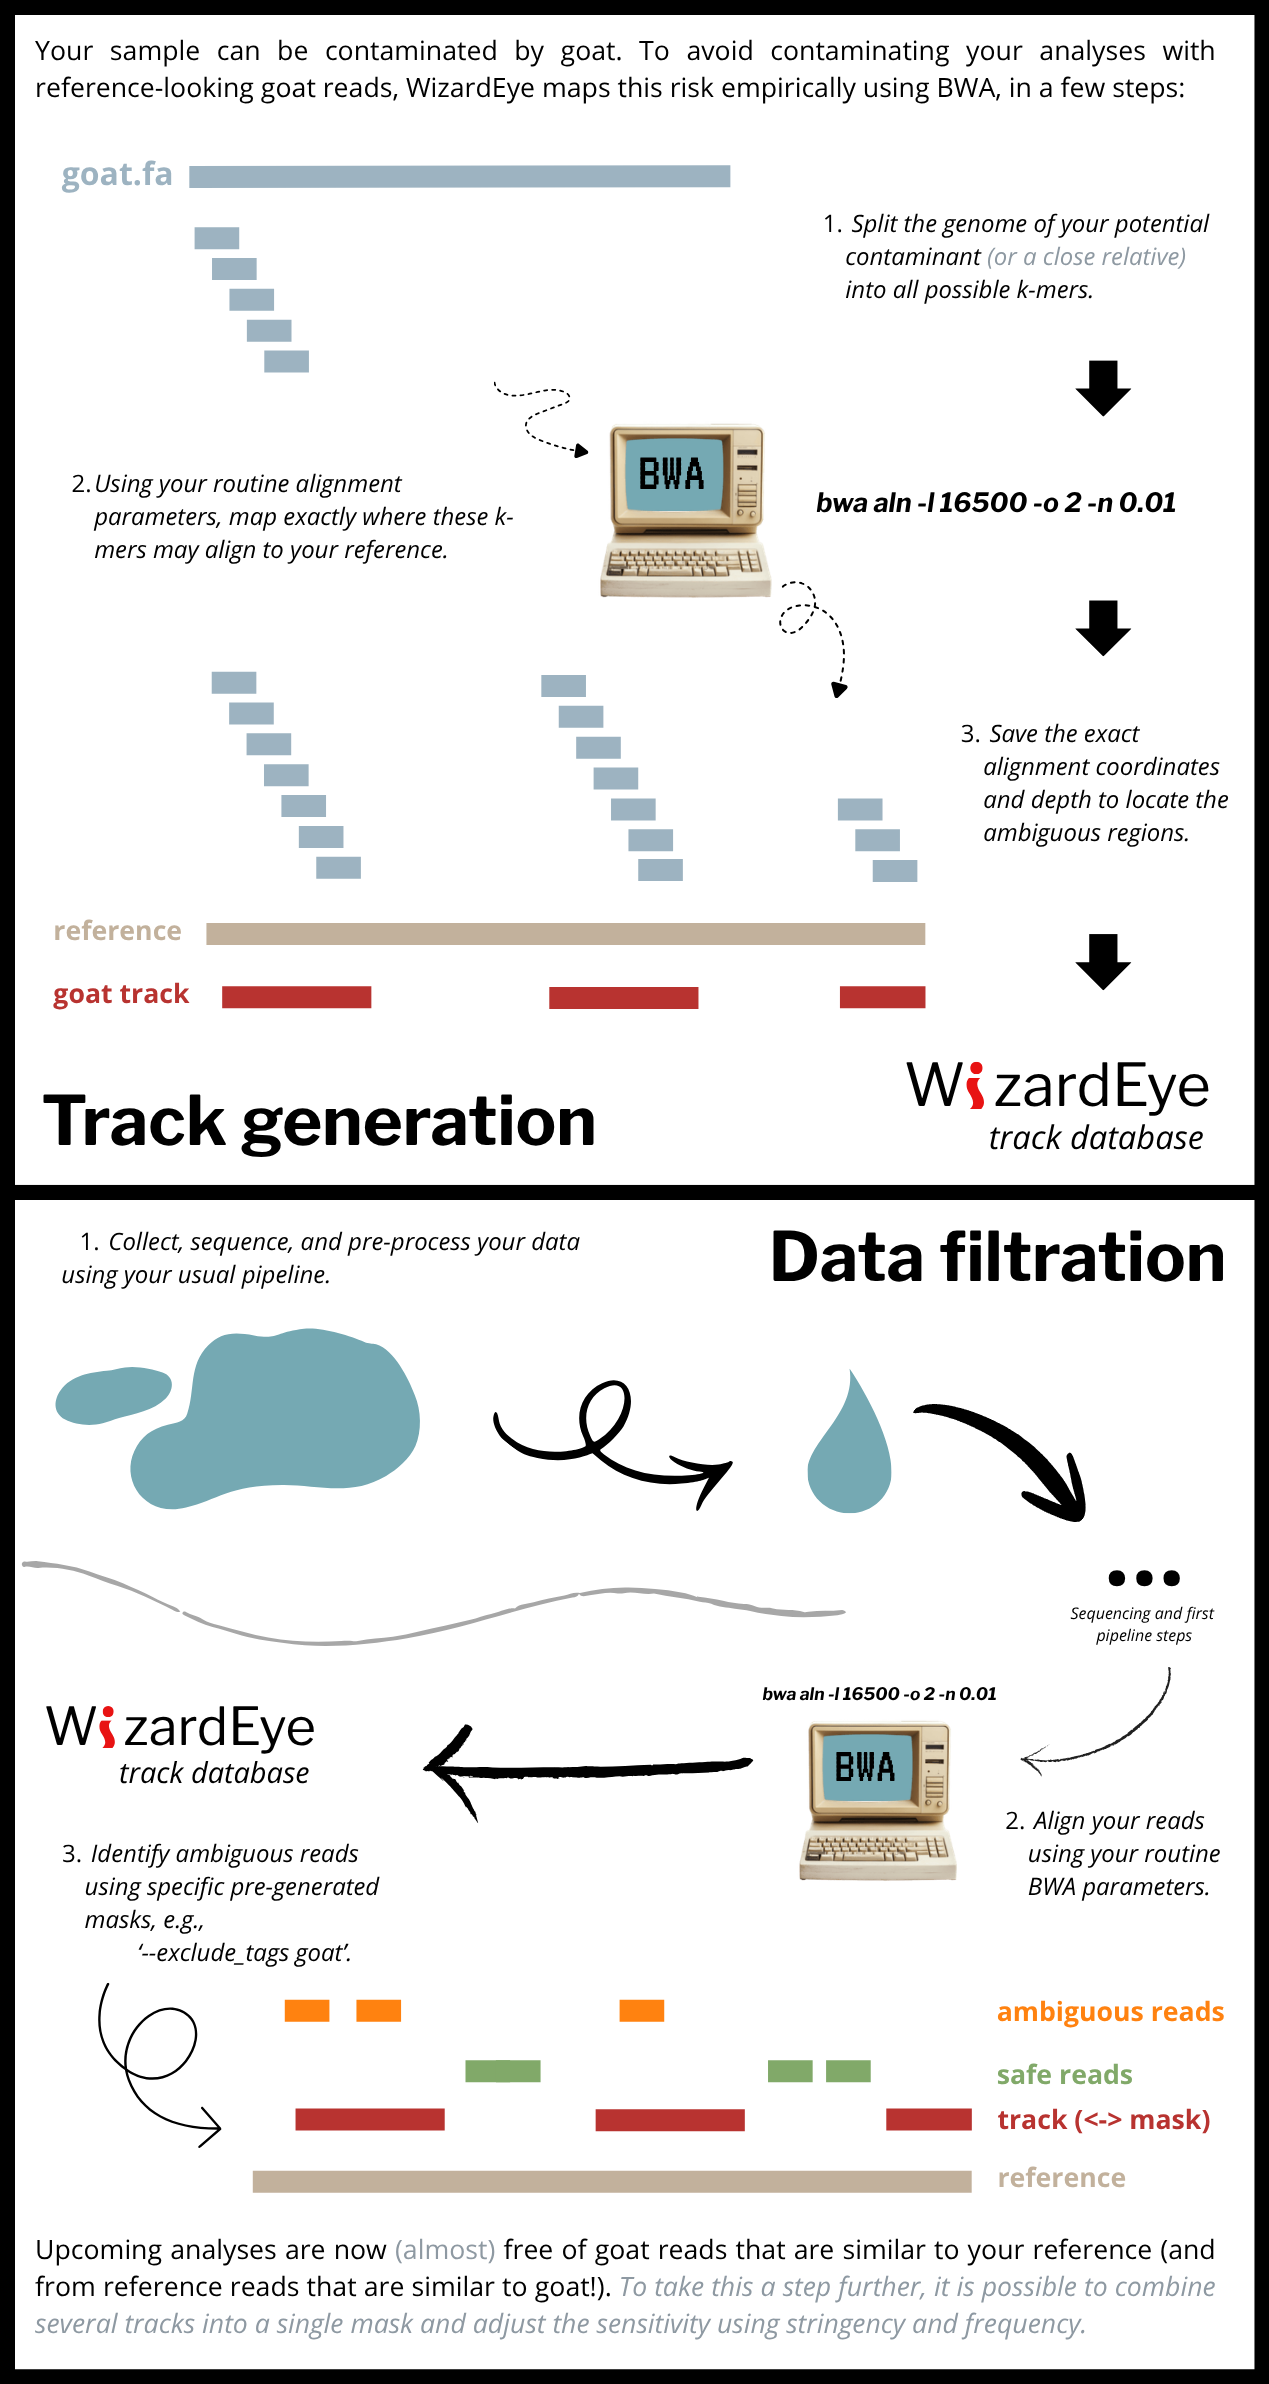
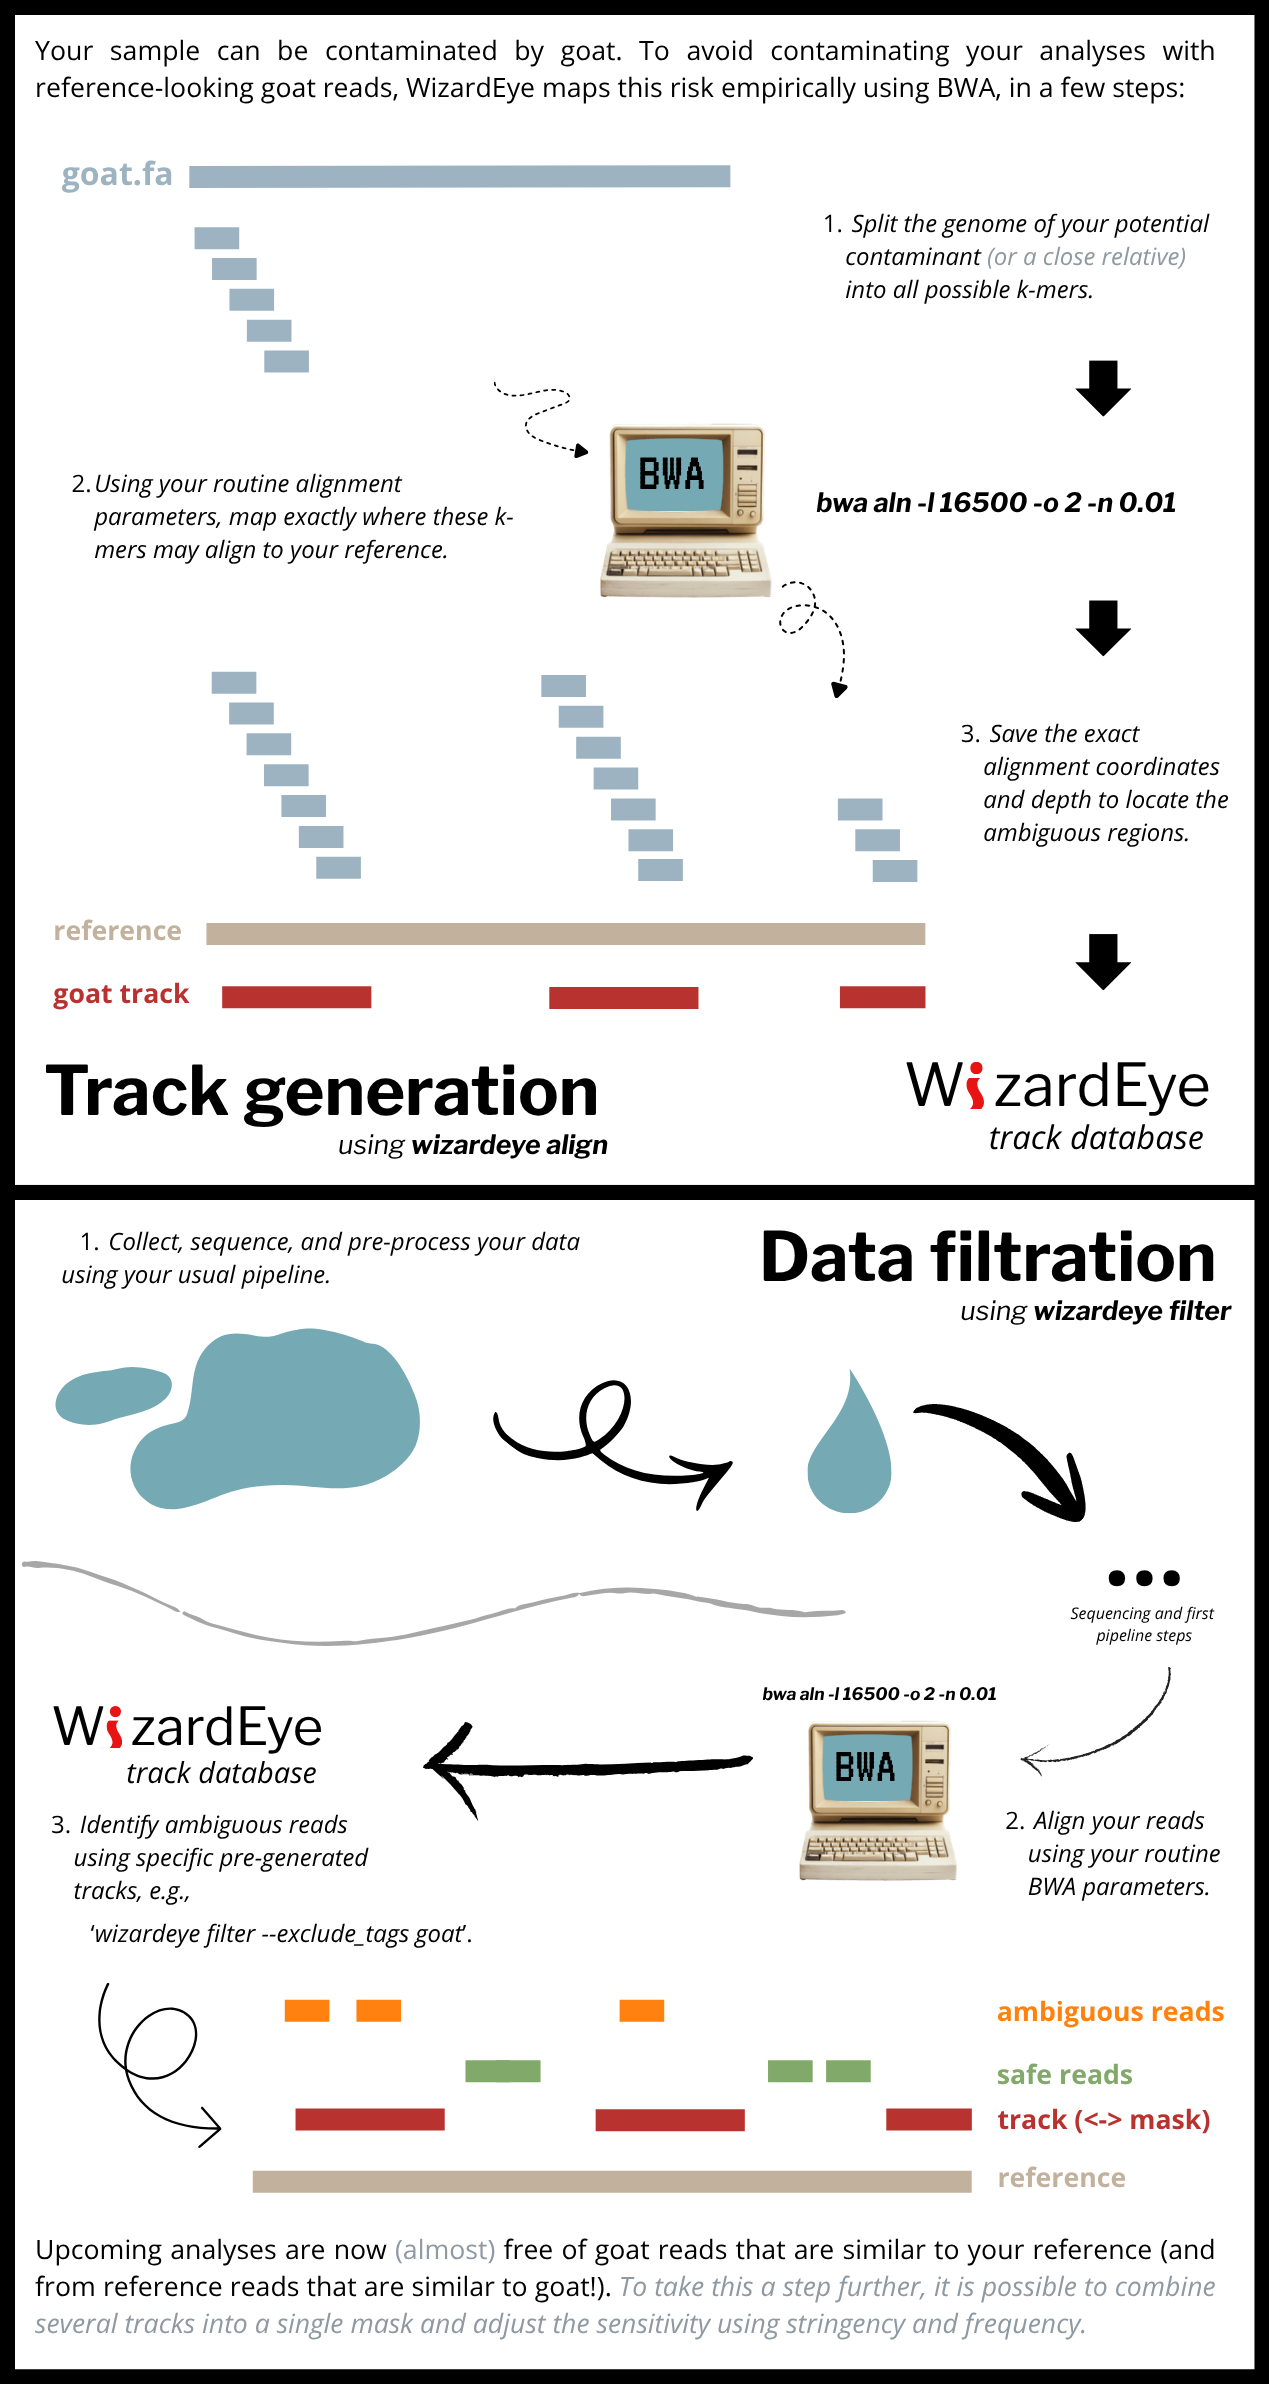
docs: improve how_it_works schema, change version in readme

diff --git a/README.md b/README.md
@@ -1,7 +1,7 @@
 # WizardEye
 
 ![Python](https://img.shields.io/badge/Python->=3.9-green.svg)
-[![Version](https://img.shields.io/badge/version-0.1.4-yellow.svg)](https://github.com/TheLokj/WizardEye/releases)
+[![Version](https://img.shields.io/badge/version-0.1.5-yellow.svg)](https://github.com/TheLokj/WizardEye/releases)
 ![Beta](https://img.shields.io/badge/beta-orange.svg)
 [![Install WizardEye using bioconda](https://img.shields.io/badge/Install%20WizardEye%20using-bioconda-brightblue.svg?style=flat)](https://anaconda.org/channels/bioconda/packages/wizardeye/overview)
 [![Python CI](https://github.com/TheLokj/WizardEye/actions/workflows/test.yml/badge.svg)](https://github.com/TheLokj/WizardEye/actions/workflows/test.yml)
@@ -11,7 +11,7 @@ WizardEye is a Python tool that filters aligned reads based on the risk of ambig
 
 <img src="docs/wizardeye.png" alt="WizardEye" width="800" />
 
-**WizardEye is currently in beta and under active development. Future updates will bring new features, improve stability, and ensure robustness through comprehensive unit testing.**
+**WizardEye is currently in beta and under active development. Please open a GitHub issue if you come across a bug or would like to suggest improvements.**
 
 To achieve this, WizardEye first identifies all positions in your reference genome that could be targeted by reads from known ambiguous sources using your alignment parameters. For example, it can filter out reads that map to regions conserved between your reference genome and potentially contaminating organisms.
 
@@ -221,8 +221,6 @@ If sequence naming differs between BAM and tracks (e.g., `chr1` vs `1`), filteri
 
 #### Adjust the filter hardness
 
-<img src="docs/stringency_and_frequency.png" alt="WizardEye - Filter parameters" width="800" />
-
 ##### Stringency
 
 To balance sensitivity and specificity, you can specify a stringency value during filtering. This criterion is defined as follows.
@@ -248,6 +246,8 @@ wizardeye filter -i alignment.bam -r hg19 --exclude-tracks myotis_alcathoe,ursus
 ```
 
 Note that the `-mf` parameter is also available in the `export` command to generate masks with frequency filtering applied. This will remove lines with less than `-mf` from the final bed file.
+
+<img src="docs/stringency_and_frequency.png" alt="WizardEye - Stringency and Frequency" width="800" />
 
 #### Output
 
